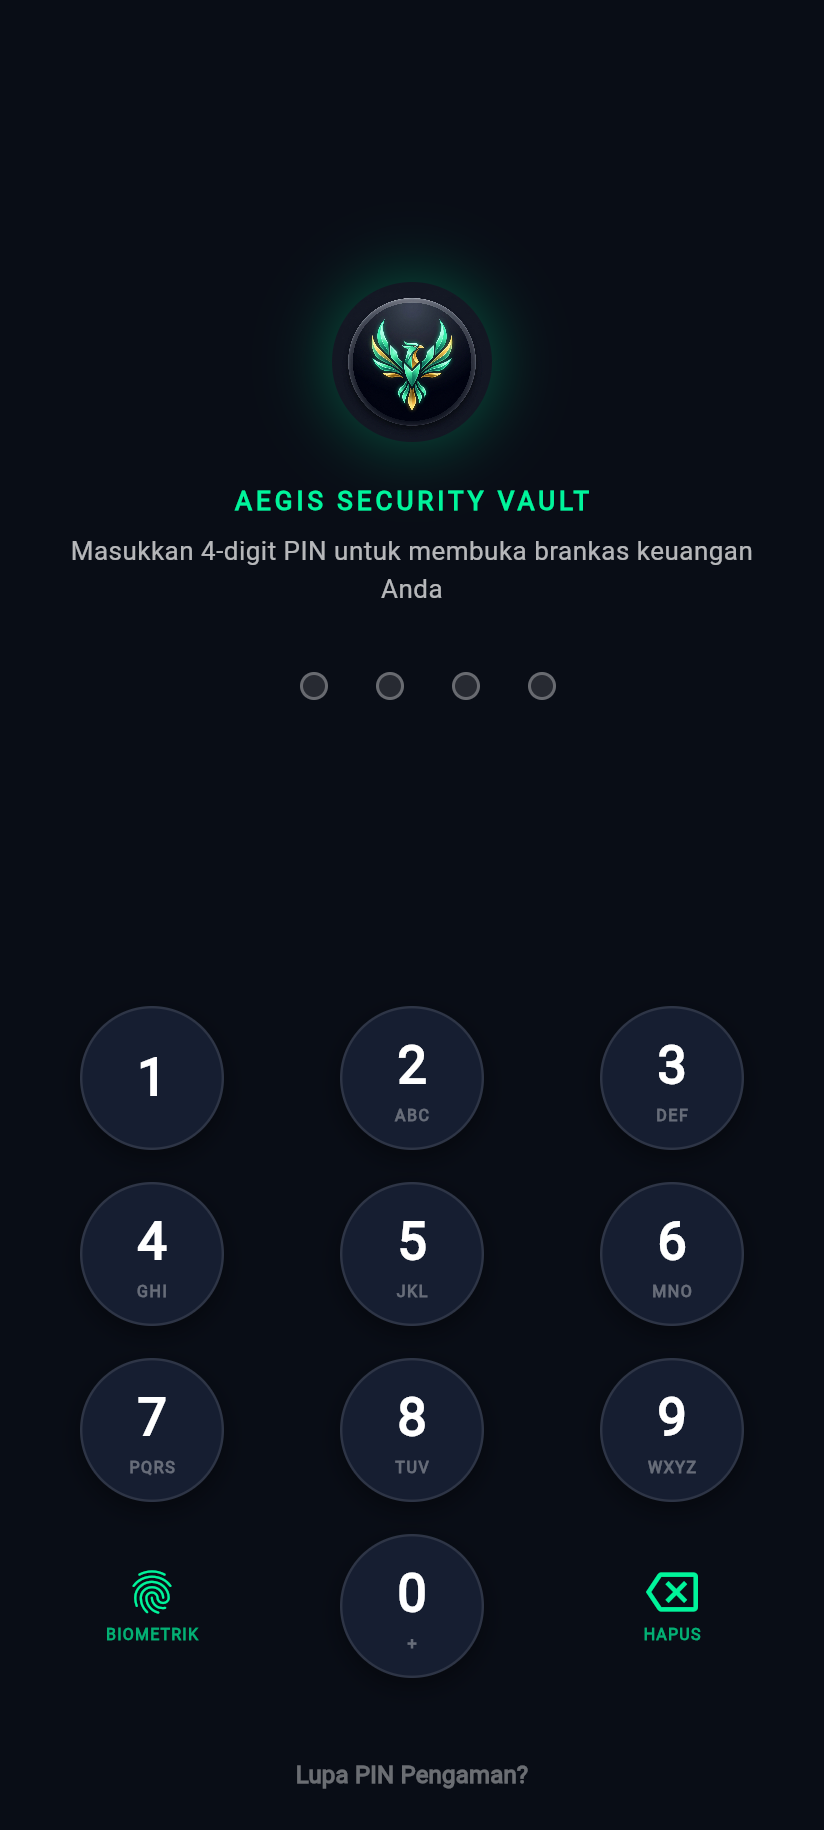
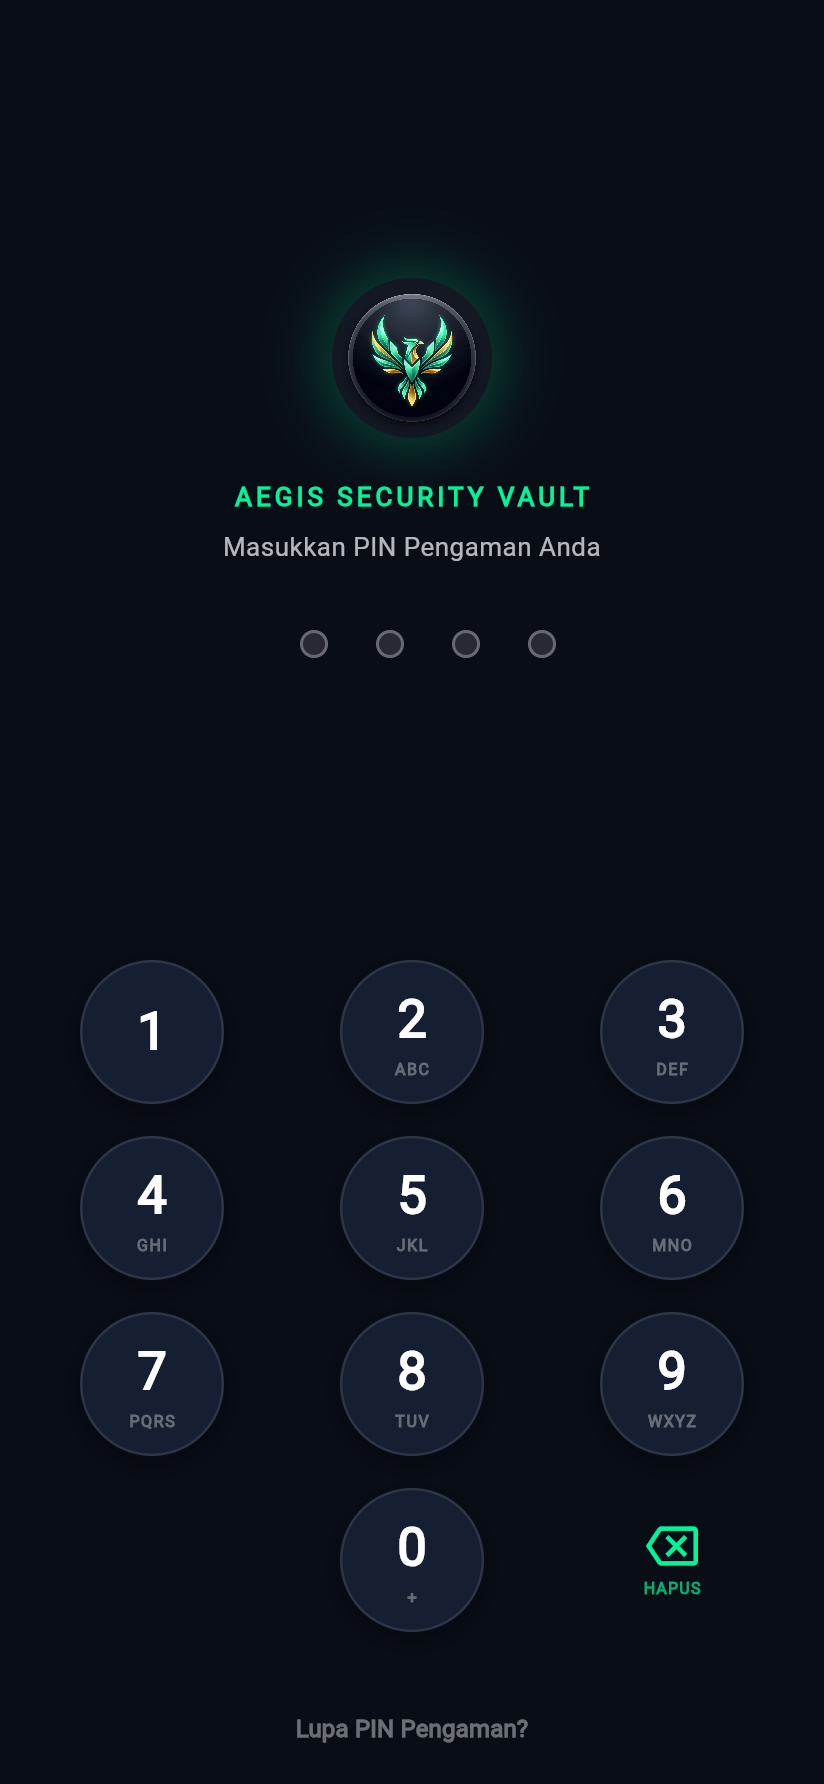
fix: remove non-functional biometric button from PIN screen and settings, update PIN screenshot

diff --git a/lib/screens/pin_lock_screen.dart b/lib/screens/pin_lock_screen.dart
@@ -162,17 +162,6 @@ class _PinLockScreenState extends State<PinLockScreen> with SingleTickerProvider
     _shakeController.forward(from: 0.0);
   }
 
-  void _onBiometricTap() {
-    if (!widget.storageService.biometricsEnabled) return;
-    HapticFeedback.mediumImpact();
-    // Smooth biometric authentication shortcut
-    widget.storageService.unlockApp();
-    widget.onSuccess?.call();
-    if (widget.mode != PinLockMode.unlock && mounted) {
-      Navigator.of(context).maybePop();
-    }
-  }
-
   String _getTitle() {
     switch (widget.mode) {
       case PinLockMode.unlock:
@@ -376,15 +365,8 @@ class _PinLockScreenState extends State<PinLockScreen> with SingleTickerProvider
                   Row(
                     mainAxisAlignment: MainAxisAlignment.spaceBetween,
                     children: [
-                      // Left Action: Biometrics or Empty
-                      if (widget.mode == PinLockMode.unlock && widget.storageService.biometricsEnabled)
-                        _buildActionKey(
-                          icon: Icons.fingerprint_rounded,
-                          label: 'BIOMETRIK',
-                          onTap: _onBiometricTap,
-                        )
-                      else
-                        const SizedBox(width: 72, height: 72),
+                      // Empty placeholder on left to balance the zero key in center
+                      const SizedBox(width: 72, height: 72),
 
                       // Zero
                       _buildNumKey('0', '+'),

diff --git a/lib/screens/settings_screen.dart b/lib/screens/settings_screen.dart
@@ -190,17 +190,6 @@ class _SettingsScreenState extends State<SettingsScreen> {
                     trailing: const Icon(Icons.arrow_forward_ios, size: 14),
                     onTap: _openPinChange,
                   ),
-                  const Divider(height: 1),
-                  SwitchListTile(
-                    secondary: const Icon(Icons.fingerprint_rounded, color: AppTheme.electricCyan),
-                    title: const Text('Buka Cepat dengan Biometrik', style: TextStyle(fontWeight: FontWeight.w600)),
-                    value: s.biometricsEnabled,
-                    activeThumbColor: AppTheme.electricCyan,
-                    onChanged: (val) async {
-                      await s.toggleBiometrics(val);
-                      setState(() {});
-                    },
-                  ),
                 ],
               ],
             ),

diff --git a/README.md b/README.md
@@ -81,7 +81,7 @@ flowchart LR
     B <--> C["📊 Kantong Aset<br/>Donut & Kurva Tabungan"]
     B <--> D["📅 Riwayat Transaksi<br/>Filter & Expandable Cards"]
     B <--> E["⚙ Pengaturan<br/>Pusat Cadangan & Vault"]
-    E -.-> F["🔒 Aegis Vault PIN<br/>(4-Digit & Biometric)"]
+    E -.-> F["🔒 Aegis Vault PIN<br/>(4-Digit Secure PIN)"]
 ```
 
 | Modul Visual | Peran & Pengalaman Pengguna |
@@ -91,7 +91,7 @@ flowchart LR
 | **📊 Kantong Aset & Analisis** | Visualisasi donat proporsi aset (Cash, Tabungan, SeaBank, Bank Jago, dompet custom), tombol transfer cepat antar-kantong, dan **Kurva Akumulasi Tabungan**. |
 | **📅 Riwayat Transaksi** | Catatan pembukuan per tanggal yang rapi, tombol filter chip (*Semua, Pengeluaran, Pemasukan, Simpan*), dan rincian transaksi harian yang dapat diperluas. |
 | **⚙ Pengaturan & Pusat Cadangan** | Pengaturan pengingat harian jam 20:00 WIB, sensor privasi samaran, serta **Pusat Cadangan & Pindah HP** satu pintu (ekspor file atau salin kode via WhatsApp). |
-| **🔒 Aegis Security Vault** | Layar kunci PIN 4-digit taktil dengan dukungan sensor sidik jari/Face ID dan auto-lock seketika saat aplikasi diminimalkan. |
+| **🔒 Aegis Security Vault** | Layar kunci PIN 4-digit taktil dengan indikator dot dan auto-lock seketika saat aplikasi diminimalkan. |
 
 ---
 
@@ -102,7 +102,7 @@ flowchart LR
 * 💎 **Skala Eksekutif Triliun & Milyar**: Format nominal cerdas (`1.5jt`, `2.5M`, `10T`) dengan fitur *auto-fit scaling* pada kartu Net Worth agar angka tidak pernah terpotong atau overflow.
 * 📈 **Kurva Akumulasi Tabungan**: Grafik interaktif kurva tabungan (*Savings Growth Curve*) untuk memvisualisasikan percepatan pertumbuhan simpanan dari hari ke hari.
 * 🟣🟢🟡 **Trio Cincin Finansial Konsentris**: Visualisasi radar Apple Watch untuk memantau konsistensi streak harian, kendali pengeluaran vs budget, dan progres target tabungan.
-* 🔒 **Aegis Security Vault**: Kunci aplikasi dengan PIN 4-digit taktil, haptic feedback getar, sensor biometrik (sidik jari/Face ID), dan auto-lock saat aplikasi diminimalkan.
+* 🔒 **Aegis Security Vault**: Kunci aplikasi dengan PIN 4-digit taktil, haptic feedback getar, dan auto-lock saat aplikasi diminimalkan.
 * 👁 **Sensor Privasi Cepat (1-Tap)**: Seketika menyamarkan seluruh nominal angka saldo menjadi `Rp ••••••••` saat berada di kafe atau tempat umum.
 * ⚡ **Pencatatan Kilat 3 Detik**: Numpad taktil dan chip angka instan (`+5k`, `+10k`, `+20k`, `+50k`, `+100k`) untuk mencatat transaksi harian tanpa buang waktu.
 * 📅 **Riwayat & Filter Fleksibel**: Filter cepat (*Semua, Pengeluaran, Pemasukan, Simpan*) dan rincian transaksi harian yang dapat dibuka/tutup (*expandable*).
